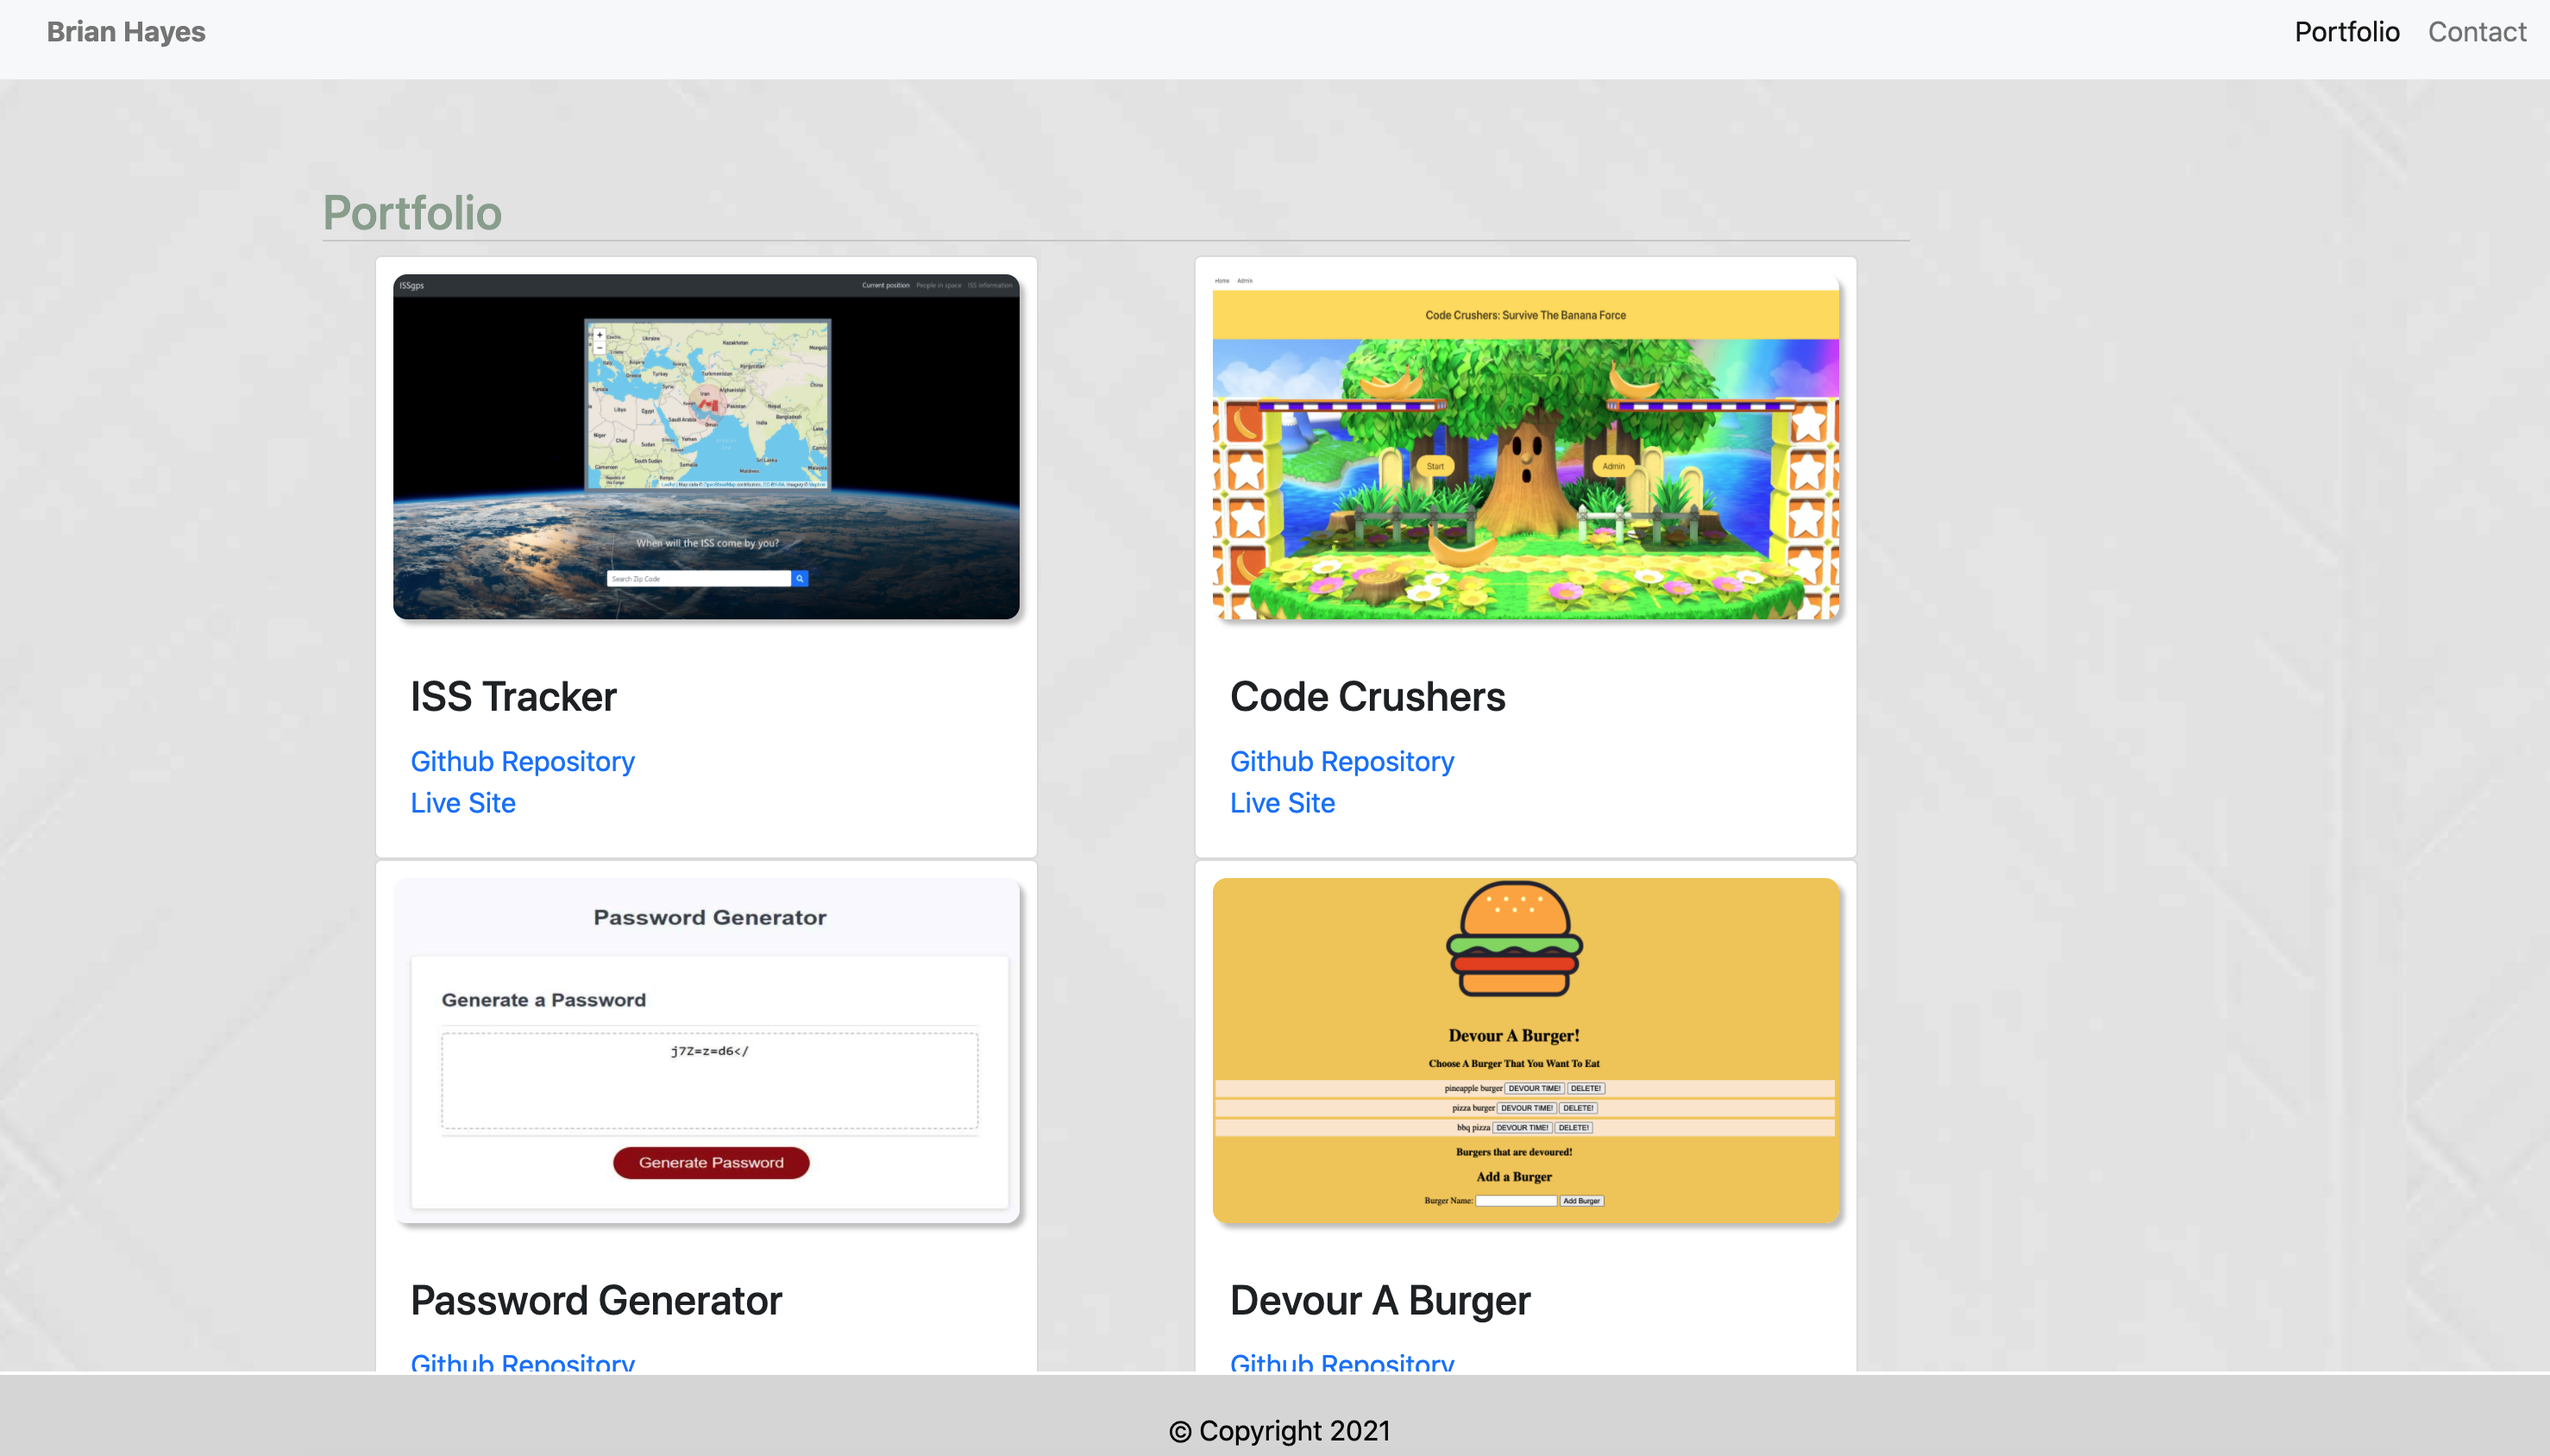
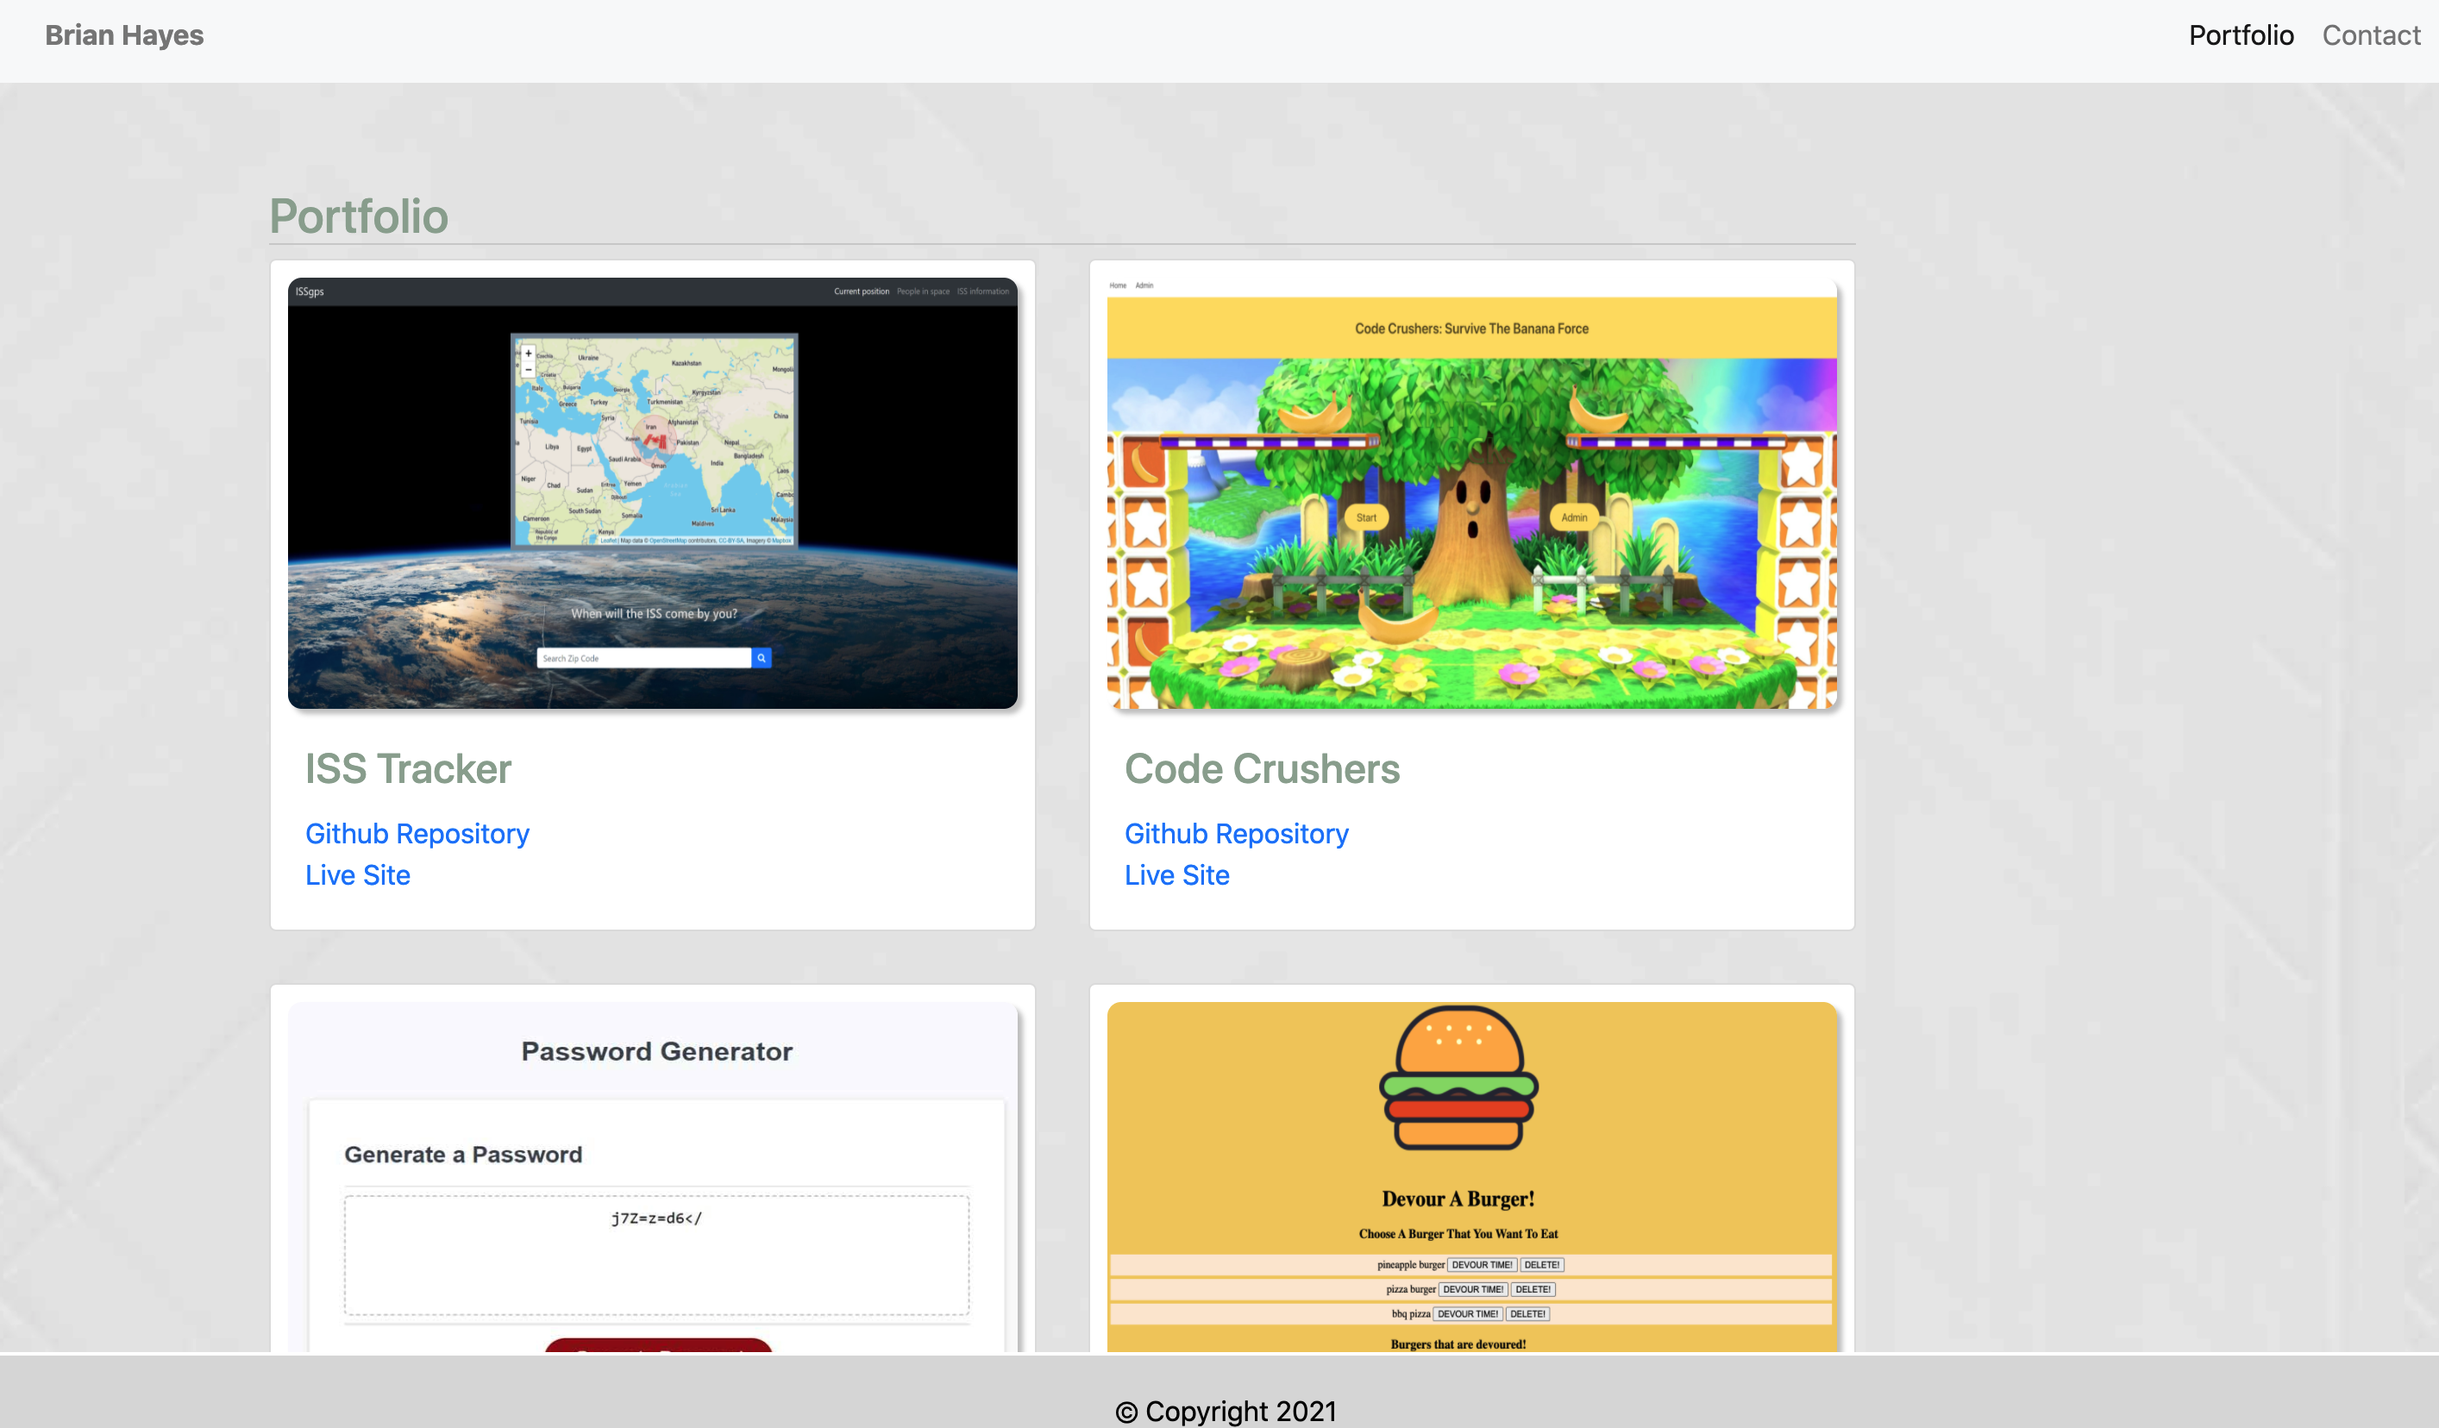
added css to portfolio page

diff --git a/src/components/Card/Card.jsx b/src/components/Card/Card.jsx
@@ -3,9 +3,9 @@ import "./Card.css";
 
 const Card = (props) => {
     return (
-        <div className="container">
-            <div classname="row">
-                <div className="col-sm-12">
+        <div className="container card-pad">
+            <div className="row">
+                <div className="col-sm-12 card-title port-pad">
                     <div className="card large-port">
                         <img src={props.image} className="card-top portfolio-image" alt={props.title}></img>
                         <div className="card-body">

diff --git a/src/components/Card/Card.css b/src/components/Card/Card.css
@@ -1,9 +1,26 @@
 .portfolio-image {
     margin-top: 10px;
     margin-right: 10px;
-    margin-bottom: 10px;
+    margin-bottom: 0px;
     margin-left: 10px;
     border-radius: 8px;
-    height: 200px;
+    height: 250px;
     box-shadow: 3px 3px 3px rgb(196, 196, 196);
   }
+.card-pad {
+    margin-top: 0px;
+    margin-right: 0px;
+    margin-bottom: 60px;
+    margin-left: 0px;
+    padding-bottom: 0px;
+    padding-right: 0px;
+    height: 360px;
+}
+
+.card-title {
+    color: rgb(146, 167, 150);
+}
+
+.port-pad {
+    padding-left: 0px;
+}

diff --git a/src/containers/Portfolio/Portfolio.jsx b/src/containers/Portfolio/Portfolio.jsx
@@ -21,7 +21,7 @@ const Portfolio = () => {
               <div className="row">
                 <div className="col-sm-6 portfolio-column">
                 <Card 
-                  image={project_1} 
+                  image={project_1}
                   title="ISS Tracker"
                   Github="https://github.com/bhayes11/ISS-Tracker"
                   Website="https://bhayes11.github.io/group-22-project1/"/>
